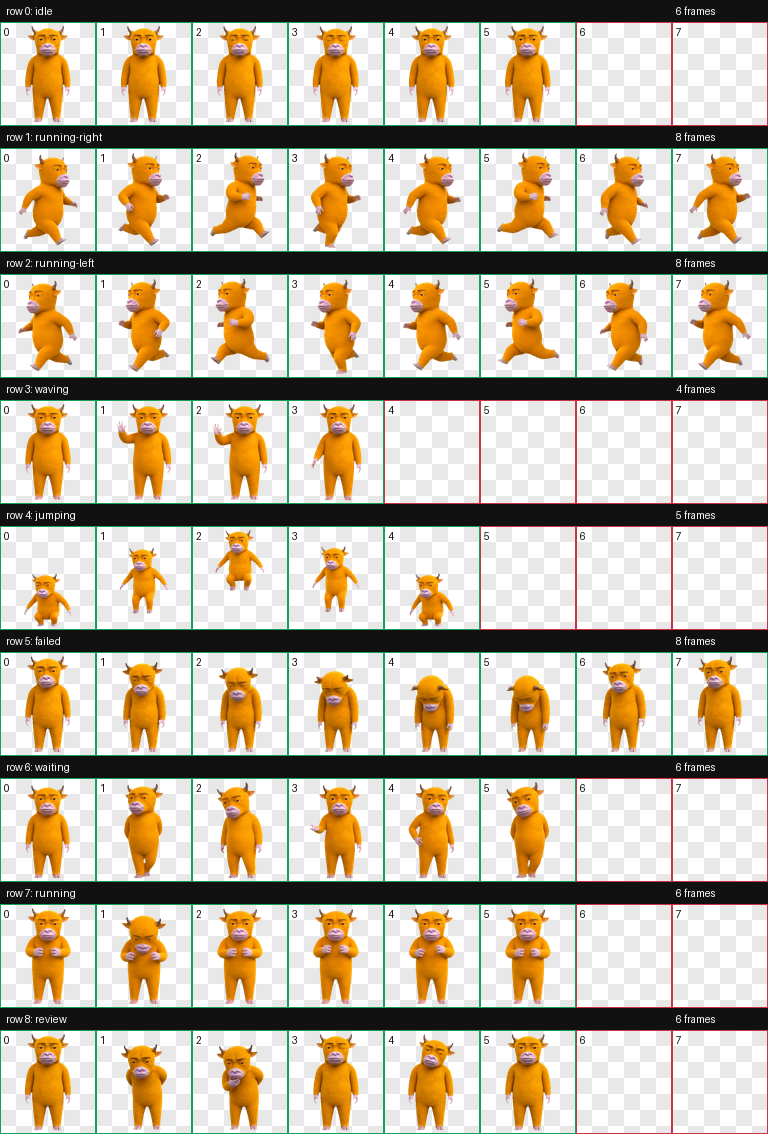
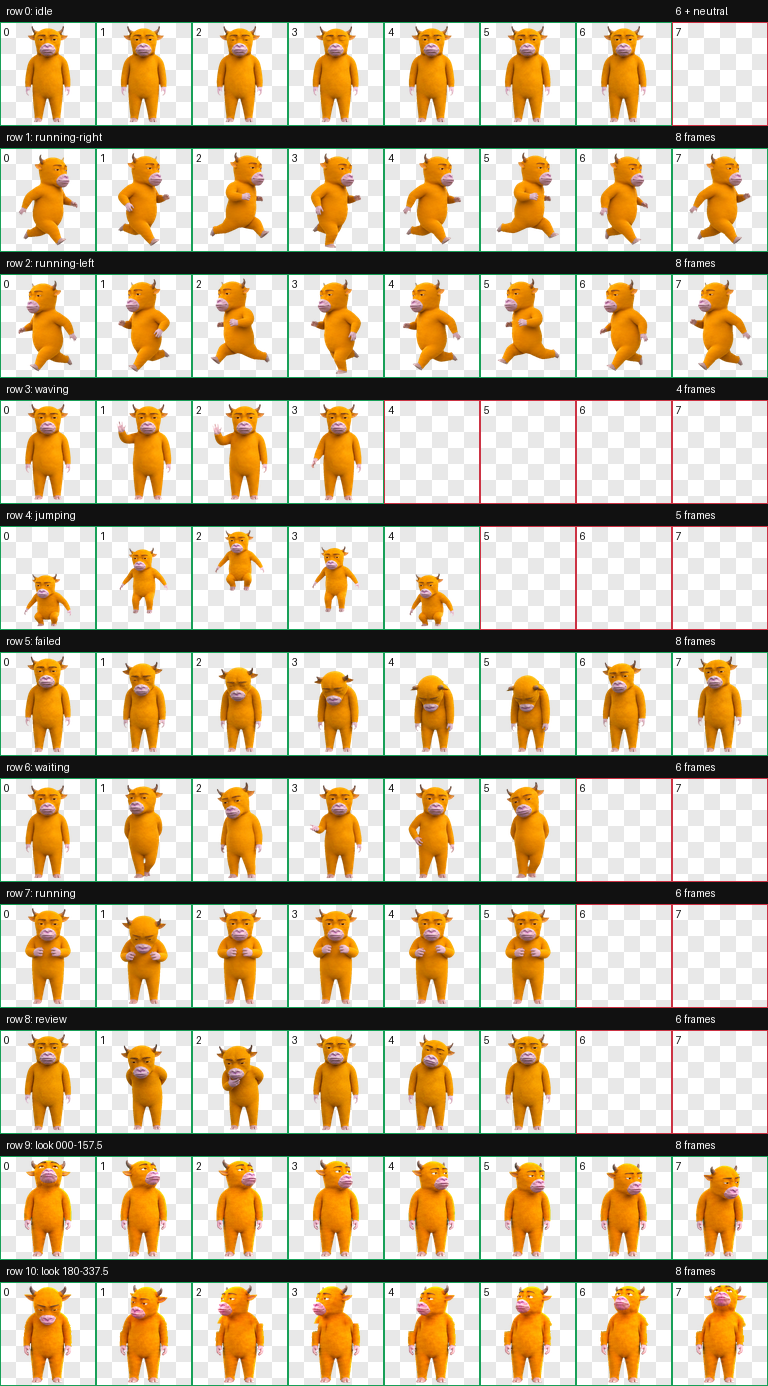
Upgrade Niulai pet to v2 with look directions

diff --git a/scripts/validate_pet.py b/scripts/validate_pet.py
@@ -20,18 +20,31 @@ def main() -> None:
         "id": "niulai",
         "displayName": "牛来",
         "description": "一头粗制滥造、表情严肃的金黄色牛来。",
+        "spriteVersionNumber": 2,
         "spritesheetPath": "spritesheet.webp",
     }
 
     with Image.open(SPRITESHEET_PATH) as spritesheet:
         assert spritesheet.format == "WEBP"
-        assert spritesheet.size == (1536, 1872)
+        assert spritesheet.size == (1536, 2288)
         assert spritesheet.mode == "RGBA"
 
         cell_width, cell_height = 192, 208
-        used_frames = (6, 8, 8, 4, 5, 8, 6, 6, 6)
+        # Row 0 contains six idle frames plus the dedicated neutral look frame.
+        # Rows 9-10 contain all 16 clockwise look directions.
+        used_frames = (7, 8, 8, 4, 5, 8, 6, 6, 6, 8, 8)
         alpha = spritesheet.getchannel("A")
         for row, used_count in enumerate(used_frames):
+            for column in range(used_count):
+                box = (
+                    column * cell_width,
+                    row * cell_height,
+                    (column + 1) * cell_width,
+                    (row + 1) * cell_height,
+                )
+                assert alpha.crop(box).getbbox() is not None, (
+                    f"used cell row={row} column={column} is empty"
+                )
             for column in range(used_count, 8):
                 box = (
                     column * cell_width,

diff --git a/README.md b/README.md
@@ -11,7 +11,7 @@
 </p>
 
 <p align="center">
-  低分辨率 · 弱纹理 · 早期 CGI · 完整 Codex Pet 九状态动画
+  低分辨率 · 弱纹理 · 早期 CGI · Codex Pet v2 · 九状态动画 + 16 个注视方向
 </p>
 
 ## 30 秒安装
@@ -56,15 +56,28 @@ git clone https://github.com/siwei-yuan/niulai-codex-pet.git; cd niulai-codex-pe
 | 跳跃 | 原地蓄力、腾空、落地 |
 | 任务失败 | 低头、塌肩，陷入沉思 |
 | 等待输入 | 侧看、摊手，等你决定 |
-| 任务执行中 | 低头专注处理，手上一直没停 |
+| 后台任务执行中 | 低头专注处理，手上一直没停 |
 | 检查结果 | 前倾、眯眼、托腮审查 |
 
+Codex 当前会隐藏正在前台查看的任务状态；要看到“任务执行中”，请让任务在另一个 Codex 对话中后台运行。向左、向右奔跑由拖动桌宠触发；16 个注视方向由 Computer Use 自动化光标触发。
+
 <details>
-<summary><strong>查看完整九行精灵动画接触表</strong></summary>
+<summary><strong>查看完整 v2 十一行精灵动画接触表</strong></summary>
 
 ![牛来 Codex 桌宠完整动画接触表](previews/contact-sheet.png)
 
+[打开原始分辨率高清版](previews/contact-sheet-v2-hd.png)
+
 </details>
+
+## 宣传素材
+
+<p align="center">
+  <img src="social-media/niulai-actions/01-waving.png" width="23%" alt="牛来挥手宣传图" />
+  <img src="social-media/niulai-actions/02-running-right.png" width="23%" alt="牛来奔跑宣传图" />
+  <img src="social-media/niulai-actions/03-jumping.png" width="23%" alt="牛来跳跃宣传图" />
+  <img src="social-media/niulai-actions/04-working.png" width="23%" alt="牛来工作宣传图" />
+</p>
 
 ## 手动安装
 
@@ -85,11 +98,13 @@ ${CODEX_HOME:-$HOME/.codex}/pets/niulai/
 
 ## 技术信息
 
-- Codex Pet 官方协议尺寸：1536×1872
+- Codex Pet v2 协议尺寸：1536×2288
 - WebP + RGBA 透明通道
-- 8 列 × 9 行动画精灵表
+- 8 列 × 11 行动画精灵表
 - 未使用单元格全透明
 - 9 种完整 Codex 状态，共 57 帧
+- 1 个 neutral frame + 16 个顺时针注视方向
+- `spriteVersionNumber: 2`
 
 可选的本地验证：
 
